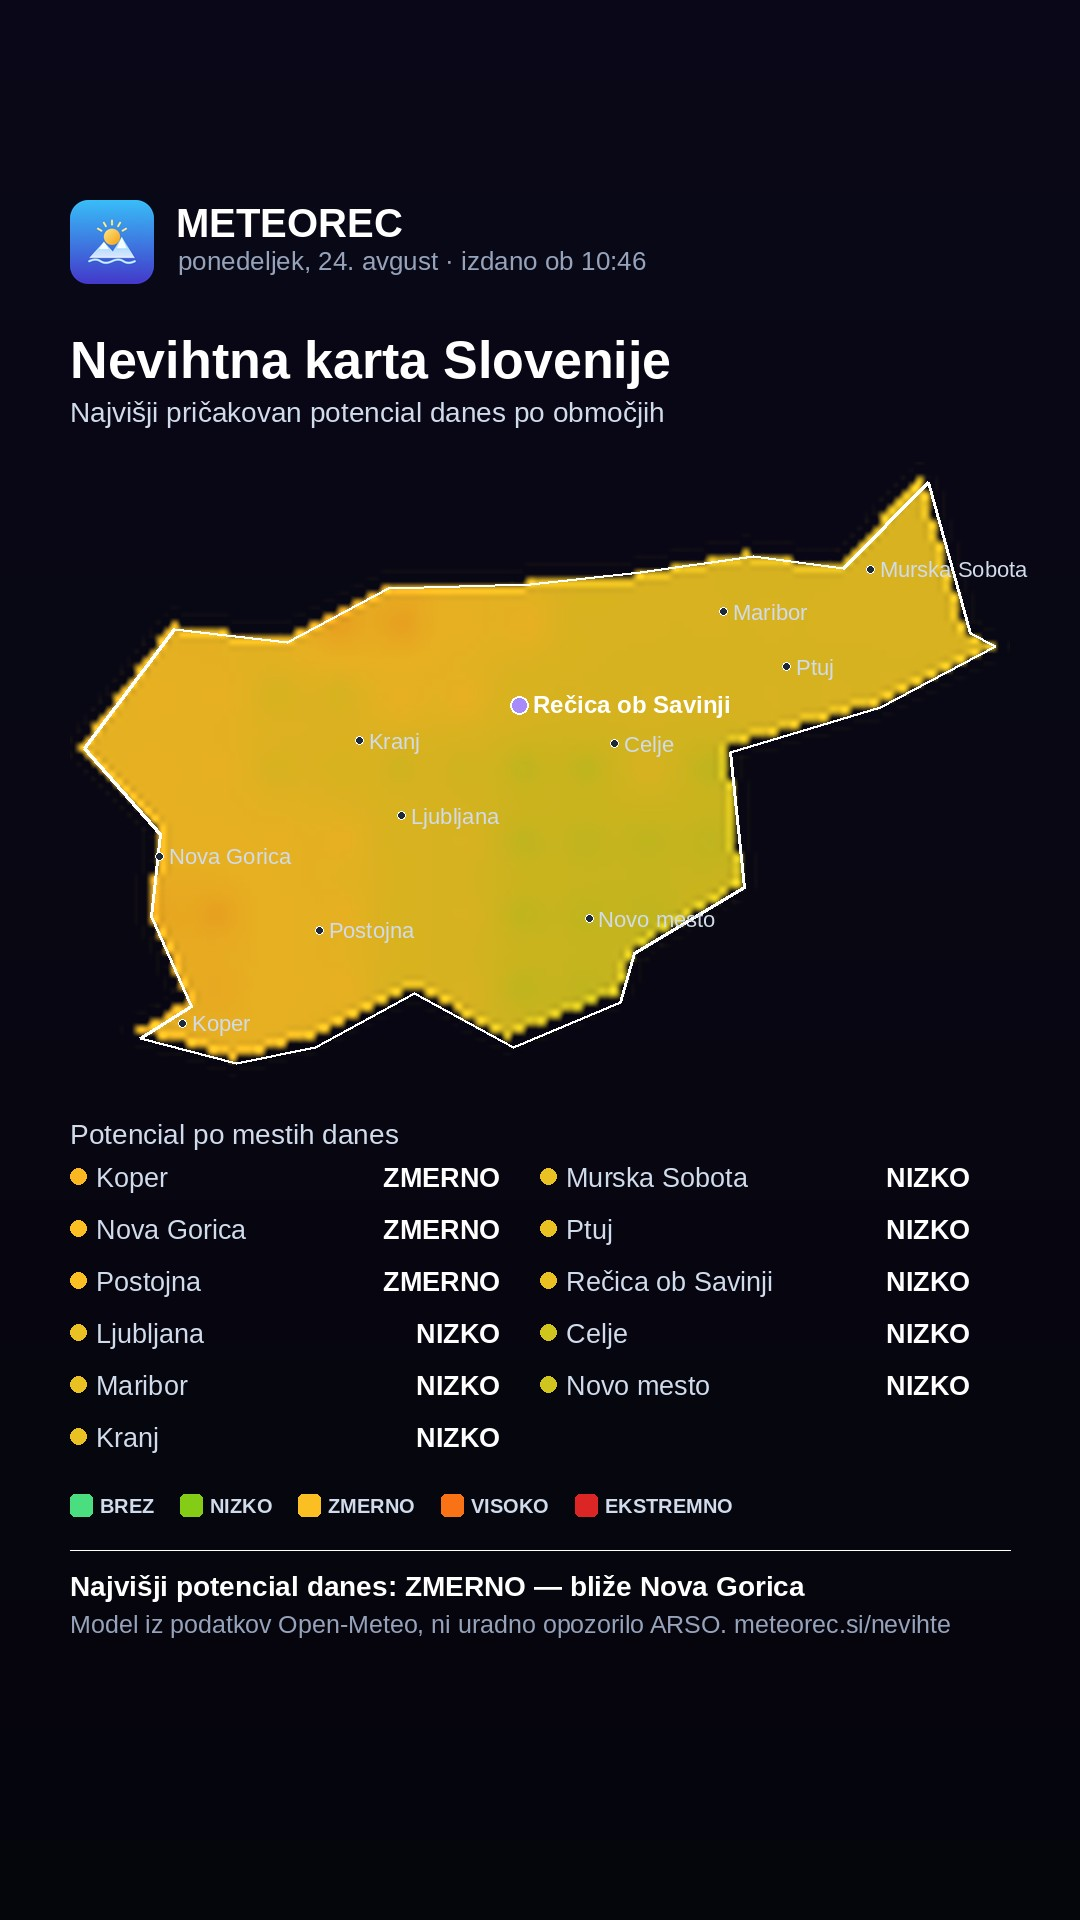
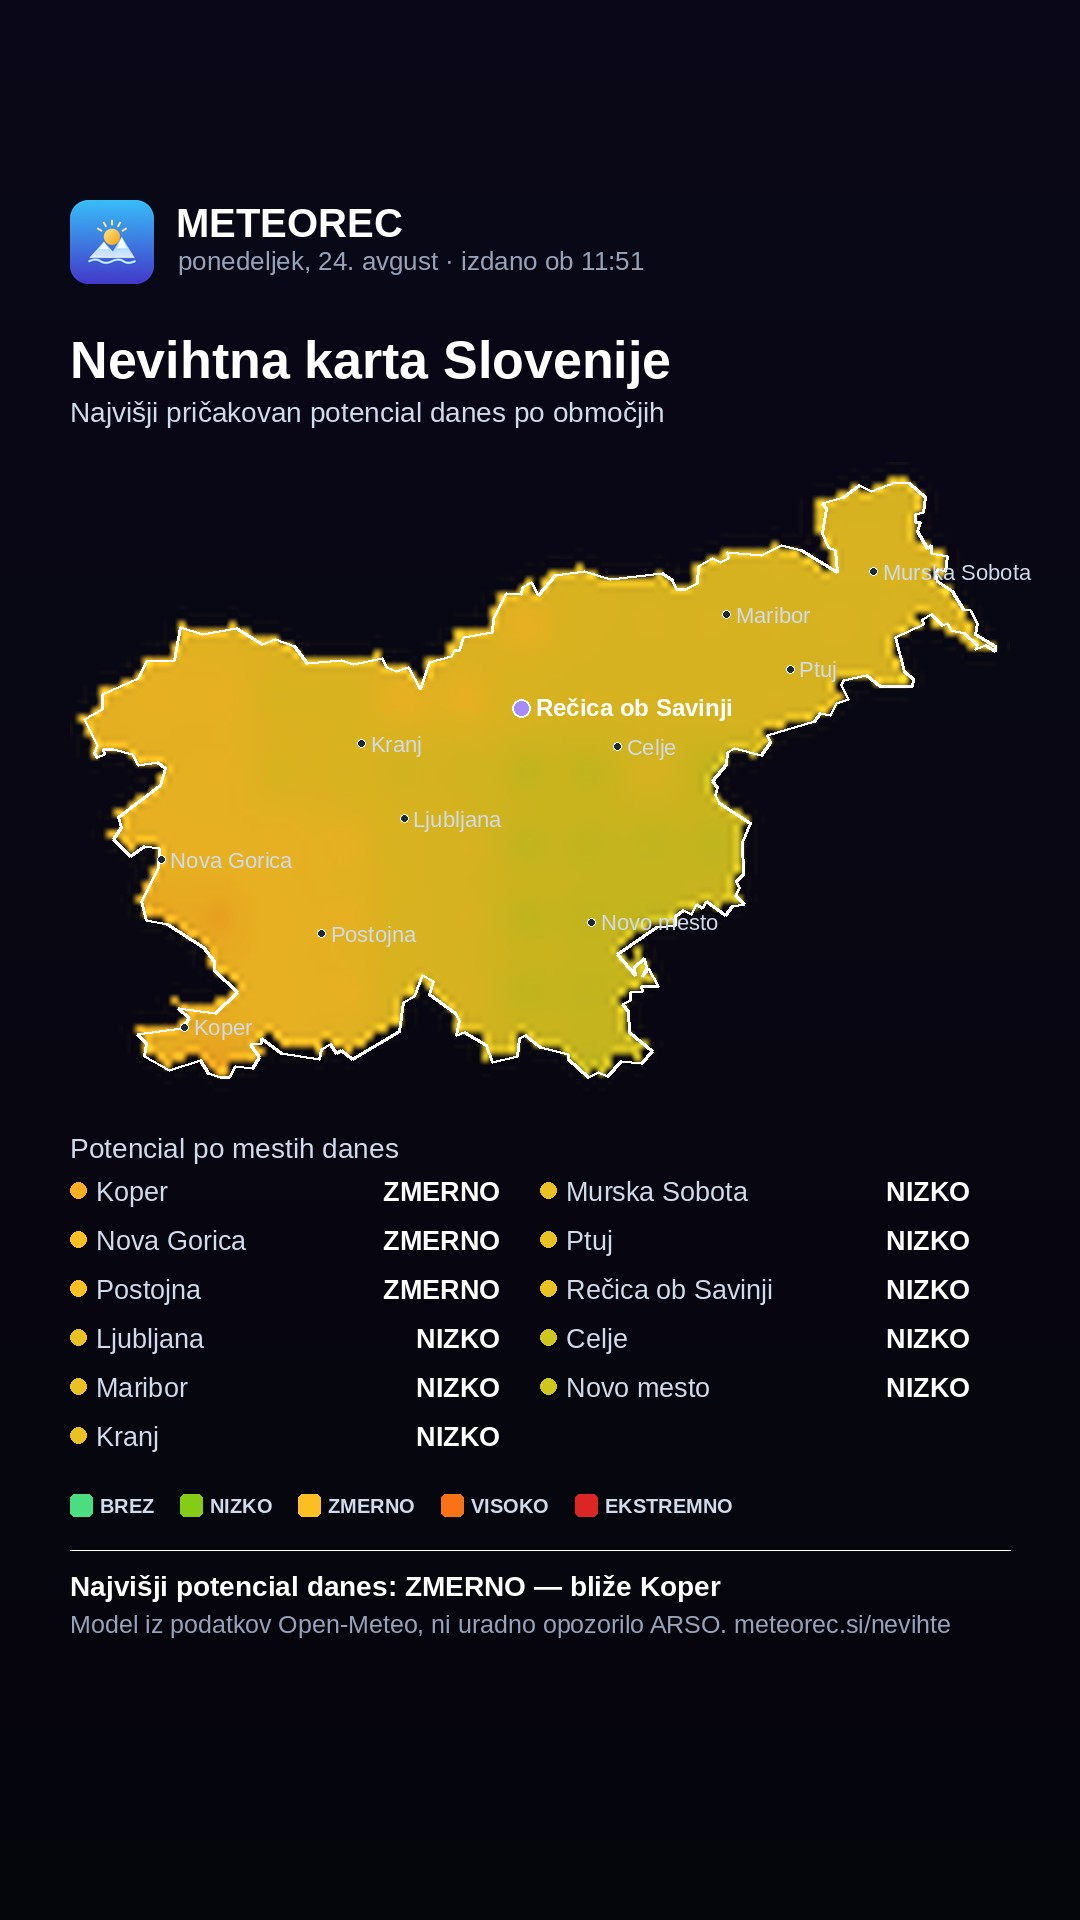
nevihte: popravi obris Slovenije na nevihtni karti (#767)
SLO_POLY je bil grob 25-točkovni približek, ki je mejo vidno popačil
(ravni odseki namesto resnične razčlenjenosti npr. pri Istri in
Prekmurju). Nadomeščen s 220-točkovnim obrisom, poenostavljenim iz
uradne meje GISCO/Eurostat (CNTR_RG_01M_2020_4326). Popravljeno na obeh
mestih, kjer je vrednost prepisana (app.js in generate_storm_map.py, po
pravilu iz docstringa/CLAUDE.md).

Dnevna karta za 2026-08-24 ponovno generirana s popravljenim obrisom.

diff --git a/app.js b/app.js
@@ -11271,8 +11271,9 @@ function scSetHour(v){
 // ══════════════════════════════════════════════════════════
 let _sloMap=null,_sloOverlay=null,_sloMarkers=[],_sloData=null,_sloFetchTime=0,_sloGrid=[];
 
-// Grobi obris Slovenije [lon,lat] — za filtriranje mreže in mehko bledenje robov
-const SLO_POLY=[[13.38,46.22],[13.70,46.51],[14.10,46.48],[14.46,46.61],[14.96,46.62],[15.35,46.65],[15.75,46.69],[16.07,46.66],[16.37,46.87],[16.52,46.50],[16.61,46.47],[16.20,46.32],[15.67,46.21],[15.72,45.88],[15.33,45.72],[15.28,45.60],[14.90,45.49],[14.55,45.62],[14.20,45.49],[13.92,45.45],[13.58,45.51],[13.76,45.59],[13.62,45.81],[13.65,46.01],[13.38,46.22]];
+// Obris Slovenije [lon,lat] (220 točk, poenostavljeno iz uradne meje GISCO/Eurostat
+// CNTR_RG_01M_2020_4326) — za filtriranje mreže in mehko bledenje robov
+const SLO_POLY=[[16.242,46.876],[16.291,46.873],[16.347,46.84],[16.34,46.804],[16.313,46.798],[16.312,46.778],[16.33,46.778],[16.319,46.756],[16.357,46.716],[16.371,46.722],[16.369,46.704],[16.427,46.695],[16.42,46.658],[16.393,46.664],[16.385,46.652],[16.392,46.634],[16.445,46.611],[16.483,46.566],[16.508,46.565],[16.531,46.531],[16.525,46.505],[16.597,46.476],[16.595,46.465],[16.561,46.478],[16.526,46.468],[16.532,46.478],[16.487,46.508],[16.441,46.515],[16.427,46.533],[16.407,46.527],[16.368,46.555],[16.337,46.543],[16.34,46.529],[16.242,46.498],[16.273,46.415],[16.307,46.396],[16.302,46.378],[16.19,46.378],[16.141,46.405],[16.058,46.394],[16.05,46.382],[16.077,46.346],[16.035,46.336],[16.014,46.309],[15.977,46.312],[15.955,46.294],[15.791,46.259],[15.801,46.243],[15.768,46.21],[15.675,46.227],[15.648,46.217],[15.645,46.188],[15.596,46.146],[15.613,46.133],[15.605,46.112],[15.619,46.092],[15.731,46.044],[15.701,45.999],[15.706,45.921],[15.68,45.904],[15.691,45.885],[15.678,45.869],[15.709,45.846],[15.665,45.841],[15.642,45.821],[15.573,45.853],[15.56,45.836],[15.539,45.848],[15.521,45.822],[15.493,45.832],[15.466,45.818],[15.465,45.795],[15.399,45.792],[15.26,45.726],[15.323,45.674],[15.319,45.694],[15.355,45.714],[15.364,45.694],[15.349,45.672],[15.369,45.69],[15.406,45.648],[15.345,45.646],[15.349,45.635],[15.306,45.632],[15.306,45.613],[15.277,45.604],[15.297,45.586],[15.304,45.534],[15.385,45.488],[15.346,45.458],[15.273,45.465],[15.226,45.427],[15.194,45.436],[15.158,45.425],[15.085,45.468],[15.085,45.482],[14.987,45.497],[14.933,45.528],[14.914,45.519],[14.905,45.477],[14.817,45.462],[14.796,45.503],[14.719,45.534],[14.69,45.527],[14.7,45.563],[14.689,45.581],[14.597,45.628],[14.61,45.659],[14.57,45.673],[14.543,45.622],[14.502,45.608],[14.488,45.537],[14.323,45.47],[14.286,45.49],[14.266,45.483],[14.245,45.505],[14.214,45.493],[14.207,45.47],[14.074,45.484],[14.002,45.52],[14.001,45.508],[13.962,45.506],[13.996,45.473],[13.971,45.448],[13.909,45.451],[13.887,45.426],[13.856,45.426],[13.815,45.434],[13.786,45.466],[13.676,45.443],[13.587,45.477],[13.595,45.507],[13.565,45.53],[13.719,45.544],[13.746,45.569],[13.709,45.593],[13.839,45.582],[13.918,45.633],[13.834,45.687],[13.834,45.707],[13.796,45.743],[13.668,45.799],[13.596,45.808],[13.576,45.854],[13.637,45.935],[13.642,45.983],[13.59,45.989],[13.539,45.965],[13.477,46.006],[13.508,46.034],[13.497,46.058],[13.644,46.137],[13.664,46.178],[13.634,46.192],[13.567,46.186],[13.546,46.212],[13.48,46.225],[13.444,46.225],[13.446,46.213],[13.423,46.206],[13.41,46.216],[13.422,46.234],[13.375,46.298],[13.44,46.323],[13.439,46.359],[13.566,46.399],[13.597,46.439],[13.693,46.443],[13.714,46.523],[13.795,46.506],[13.913,46.521],[14.007,46.481],[14.052,46.492],[14.12,46.477],[14.164,46.434],[14.283,46.443],[14.328,46.431],[14.429,46.447],[14.442,46.424],[14.48,46.414],[14.521,46.426],[14.565,46.372],[14.597,46.437],[14.675,46.451],[14.683,46.467],[14.701,46.466],[14.715,46.499],[14.819,46.509],[14.823,46.544],[14.868,46.605],[14.919,46.603],[14.923,46.62],[14.956,46.633],[14.979,46.601],[15.04,46.65],[15.144,46.659],[15.236,46.64],[15.419,46.655],[15.456,46.638],[15.467,46.614],[15.5,46.615],[15.542,46.63],[15.546,46.67],[15.595,46.69],[15.623,46.68],[15.653,46.691],[15.65,46.706],[15.769,46.699],[15.841,46.722],[15.909,46.711],[16.038,46.656],[16.03,46.711],[16.005,46.717],[15.986,46.752],[15.997,46.812],[15.986,46.826],[16.058,46.839],[16.114,46.869],[16.156,46.854],[16.242,46.876]];
 
 function sloPointIn(lon,lat){
   let inside=false;

diff --git a/tools/generate_storm_map.py b/tools/generate_storm_map.py
@@ -59,11 +59,53 @@ except Exception:
     TZ = datetime.timezone.utc
 
 # ── Prepisano iz app.js (glej docstring zgoraj — ne podvajaj brez razloga) ──
-SLO_POLY = [[13.38, 46.22], [13.70, 46.51], [14.10, 46.48], [14.46, 46.61], [14.96, 46.62],
-            [15.35, 46.65], [15.75, 46.69], [16.07, 46.66], [16.37, 46.87], [16.52, 46.50],
-            [16.61, 46.47], [16.20, 46.32], [15.67, 46.21], [15.72, 45.88], [15.33, 45.72],
-            [15.28, 45.60], [14.90, 45.49], [14.55, 45.62], [14.20, 45.49], [13.92, 45.45],
-            [13.58, 45.51], [13.76, 45.59], [13.62, 45.81], [13.65, 46.01], [13.38, 46.22]]
+# 220 točk, poenostavljeno iz uradne meje GISCO/Eurostat CNTR_RG_01M_2020_4326.
+SLO_POLY = [
+            [16.242, 46.876], [16.291, 46.873], [16.347, 46.84], [16.34, 46.804], [16.313, 46.798],
+            [16.312, 46.778], [16.33, 46.778], [16.319, 46.756], [16.357, 46.716], [16.371, 46.722],
+            [16.369, 46.704], [16.427, 46.695], [16.42, 46.658], [16.393, 46.664], [16.385, 46.652],
+            [16.392, 46.634], [16.445, 46.611], [16.483, 46.566], [16.508, 46.565], [16.531, 46.531],
+            [16.525, 46.505], [16.597, 46.476], [16.595, 46.465], [16.561, 46.478], [16.526, 46.468],
+            [16.532, 46.478], [16.487, 46.508], [16.441, 46.515], [16.427, 46.533], [16.407, 46.527],
+            [16.368, 46.555], [16.337, 46.543], [16.34, 46.529], [16.242, 46.498], [16.273, 46.415],
+            [16.307, 46.396], [16.302, 46.378], [16.19, 46.378], [16.141, 46.405], [16.058, 46.394],
+            [16.05, 46.382], [16.077, 46.346], [16.035, 46.336], [16.014, 46.309], [15.977, 46.312],
+            [15.955, 46.294], [15.791, 46.259], [15.801, 46.243], [15.768, 46.21], [15.675, 46.227],
+            [15.648, 46.217], [15.645, 46.188], [15.596, 46.146], [15.613, 46.133], [15.605, 46.112],
+            [15.619, 46.092], [15.731, 46.044], [15.701, 45.999], [15.706, 45.921], [15.68, 45.904],
+            [15.691, 45.885], [15.678, 45.869], [15.709, 45.846], [15.665, 45.841], [15.642, 45.821],
+            [15.573, 45.853], [15.56, 45.836], [15.539, 45.848], [15.521, 45.822], [15.493, 45.832],
+            [15.466, 45.818], [15.465, 45.795], [15.399, 45.792], [15.26, 45.726], [15.323, 45.674],
+            [15.319, 45.694], [15.355, 45.714], [15.364, 45.694], [15.349, 45.672], [15.369, 45.69],
+            [15.406, 45.648], [15.345, 45.646], [15.349, 45.635], [15.306, 45.632], [15.306, 45.613],
+            [15.277, 45.604], [15.297, 45.586], [15.304, 45.534], [15.385, 45.488], [15.346, 45.458],
+            [15.273, 45.465], [15.226, 45.427], [15.194, 45.436], [15.158, 45.425], [15.085, 45.468],
+            [15.085, 45.482], [14.987, 45.497], [14.933, 45.528], [14.914, 45.519], [14.905, 45.477],
+            [14.817, 45.462], [14.796, 45.503], [14.719, 45.534], [14.69, 45.527], [14.7, 45.563],
+            [14.689, 45.581], [14.597, 45.628], [14.61, 45.659], [14.57, 45.673], [14.543, 45.622],
+            [14.502, 45.608], [14.488, 45.537], [14.323, 45.47], [14.286, 45.49], [14.266, 45.483],
+            [14.245, 45.505], [14.214, 45.493], [14.207, 45.47], [14.074, 45.484], [14.002, 45.52],
+            [14.001, 45.508], [13.962, 45.506], [13.996, 45.473], [13.971, 45.448], [13.909, 45.451],
+            [13.887, 45.426], [13.856, 45.426], [13.815, 45.434], [13.786, 45.466], [13.676, 45.443],
+            [13.587, 45.477], [13.595, 45.507], [13.565, 45.53], [13.719, 45.544], [13.746, 45.569],
+            [13.709, 45.593], [13.839, 45.582], [13.918, 45.633], [13.834, 45.687], [13.834, 45.707],
+            [13.796, 45.743], [13.668, 45.799], [13.596, 45.808], [13.576, 45.854], [13.637, 45.935],
+            [13.642, 45.983], [13.59, 45.989], [13.539, 45.965], [13.477, 46.006], [13.508, 46.034],
+            [13.497, 46.058], [13.644, 46.137], [13.664, 46.178], [13.634, 46.192], [13.567, 46.186],
+            [13.546, 46.212], [13.48, 46.225], [13.444, 46.225], [13.446, 46.213], [13.423, 46.206],
+            [13.41, 46.216], [13.422, 46.234], [13.375, 46.298], [13.44, 46.323], [13.439, 46.359],
+            [13.566, 46.399], [13.597, 46.439], [13.693, 46.443], [13.714, 46.523], [13.795, 46.506],
+            [13.913, 46.521], [14.007, 46.481], [14.052, 46.492], [14.12, 46.477], [14.164, 46.434],
+            [14.283, 46.443], [14.328, 46.431], [14.429, 46.447], [14.442, 46.424], [14.48, 46.414],
+            [14.521, 46.426], [14.565, 46.372], [14.597, 46.437], [14.675, 46.451], [14.683, 46.467],
+            [14.701, 46.466], [14.715, 46.499], [14.819, 46.509], [14.823, 46.544], [14.868, 46.605],
+            [14.919, 46.603], [14.923, 46.62], [14.956, 46.633], [14.979, 46.601], [15.04, 46.65],
+            [15.144, 46.659], [15.236, 46.64], [15.419, 46.655], [15.456, 46.638], [15.467, 46.614],
+            [15.5, 46.615], [15.542, 46.63], [15.546, 46.67], [15.595, 46.69], [15.623, 46.68],
+            [15.653, 46.691], [15.65, 46.706], [15.769, 46.699], [15.841, 46.722], [15.909, 46.711],
+            [16.038, 46.656], [16.03, 46.711], [16.005, 46.717], [15.986, 46.752], [15.997, 46.812],
+            [15.986, 46.826], [16.058, 46.839], [16.114, 46.869], [16.156, 46.854], [16.242, 46.876]
+            ]
 
 SLO_CITIES = [
     {"n": "Ljubljana", "la": 46.056, "lo": 14.506}, {"n": "Maribor", "la": 46.554, "lo": 15.646},
